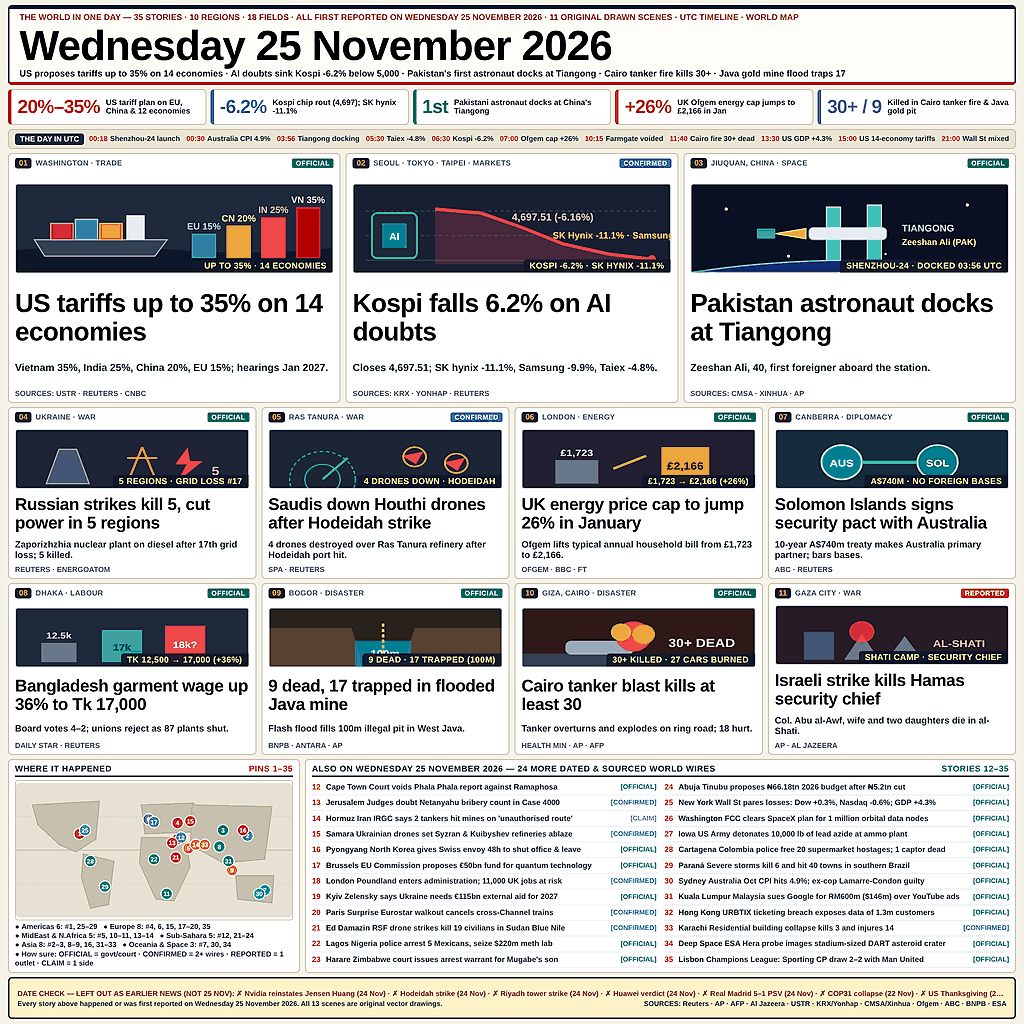
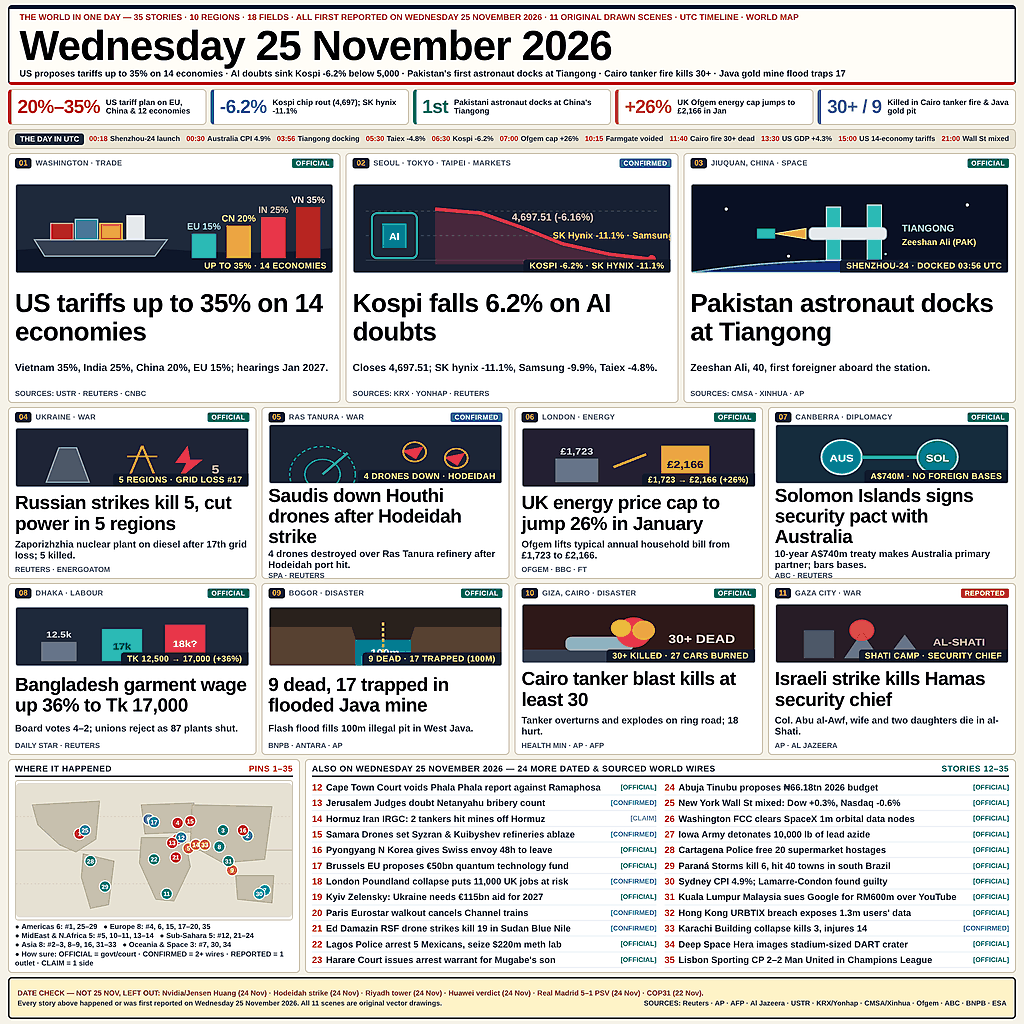
feat(news-20261125): 9.2px readable wire list, 19px mid titles, tighter date check - kills 'illegible texture' finding

diff --git a/main.py b/main.py
@@ -175,32 +175,32 @@ MID_ROW_2 = [
 
 BRIEFS_COL_1 = [
     (12, "Cape Town", "Court voids Phala Phala report against Ramaphosa", "OFFICIAL"),
-    (13, "Jerusalem", "Judges doubt Netanyahu bribery count in Case 4000", "CONFIRMED"),
-    (14, "Hormuz", "Iran IRGC says 2 tankers hit mines on 'unauthorised route'", "CLAIM"),
-    (15, "Samara", "Ukrainian drones set Syzran & Kuibyshev refineries ablaze", "CONFIRMED"),
-    (16, "Pyongyang", "North Korea gives Swiss envoy 48h to shut office & leave", "OFFICIAL"),
-    (17, "Brussels", "EU Commission proposes €50bn fund for quantum technology", "OFFICIAL"),
-    (18, "London", "Poundland enters administration; 11,000 UK jobs at risk", "CONFIRMED"),
-    (19, "Kyiv", "Zelensky says Ukraine needs €115bn external aid for 2027", "OFFICIAL"),
-    (20, "Paris", "Surprise Eurostar walkout cancels cross-Channel trains", "CONFIRMED"),
-    (21, "Ed Damazin", "RSF drone strikes kill 19 civilians in Sudan Blue Nile", "CONFIRMED"),
-    (22, "Lagos", "Nigeria police arrest 5 Mexicans, seize $220m meth lab", "OFFICIAL"),
-    (23, "Harare", "Zimbabwe court issues arrest warrant for Mugabe's son", "OFFICIAL"),
+    (13, "Jerusalem", "Judges doubt Netanyahu bribery count", "CONFIRMED"),
+    (14, "Hormuz", "Iran IRGC: 2 tankers hit mines off Hormuz", "CLAIM"),
+    (15, "Samara", "Drones set Syzran & Kuibyshev refineries ablaze", "CONFIRMED"),
+    (16, "Pyongyang", "N Korea gives Swiss envoy 48h to leave", "OFFICIAL"),
+    (17, "Brussels", "EU proposes €50bn quantum technology fund", "OFFICIAL"),
+    (18, "London", "Poundland collapse puts 11,000 UK jobs at risk", "CONFIRMED"),
+    (19, "Kyiv", "Zelensky: Ukraine needs €115bn aid for 2027", "OFFICIAL"),
+    (20, "Paris", "Eurostar walkout cancels Channel trains", "CONFIRMED"),
+    (21, "Ed Damazin", "RSF drone strikes kill 19 in Sudan Blue Nile", "CONFIRMED"),
+    (22, "Lagos", "Police arrest 5 Mexicans, seize $220m meth lab", "OFFICIAL"),
+    (23, "Harare", "Court issues arrest warrant for Mugabe's son", "OFFICIAL"),
 ]
 
 BRIEFS_COL_2 = [
-    (24, "Abuja", "Tinubu proposes ₦66.18tn 2026 budget after ₦5.2tn cut", "OFFICIAL"),
-    (25, "New York", "Wall St pares losses: Dow +0.3%, Nasdaq -0.6%; GDP +4.3%", "OFFICIAL"),
-    (26, "Washington", "FCC clears SpaceX plan for 1 million orbital data nodes", "OFFICIAL"),
-    (27, "Iowa", "US Army detonates 10,000 lb of lead azide at ammo plant", "OFFICIAL"),
-    (28, "Cartagena", "Colombia police free 20 supermarket hostages; 1 captor dead", "OFFICIAL"),
-    (29, "Paraná", "Severe storms kill 6 and hit 40 towns in southern Brazil", "OFFICIAL"),
-    (30, "Sydney", "Australia Oct CPI hits 4.9%; ex-cop Lamarre-Condon guilty", "OFFICIAL"),
-    (31, "Kuala Lumpur", "Malaysia sues Google for RM600m ($146m) over YouTube ads", "OFFICIAL"),
-    (32, "Hong Kong", "URBTIX ticketing breach exposes data of 1.3m customers", "OFFICIAL"),
-    (33, "Karachi", "Residential building collapse kills 3 and injures 14", "CONFIRMED"),
-    (34, "Deep Space", "ESA Hera probe images stadium-sized DART asteroid crater", "OFFICIAL"),
-    (35, "Lisbon", "Champions League: Sporting CP draw 2–2 with Man United", "OFFICIAL"),
+    (24, "Abuja", "Tinubu proposes ₦66.18tn 2026 budget", "OFFICIAL"),
+    (25, "New York", "Wall St mixed: Dow +0.3%, Nasdaq -0.6%", "OFFICIAL"),
+    (26, "Washington", "FCC clears SpaceX 1m orbital data nodes", "OFFICIAL"),
+    (27, "Iowa", "Army detonates 10,000 lb of lead azide", "OFFICIAL"),
+    (28, "Cartagena", "Police free 20 supermarket hostages", "OFFICIAL"),
+    (29, "Paraná", "Storms kill 6, hit 40 towns in south Brazil", "OFFICIAL"),
+    (30, "Sydney", "CPI 4.9%; Lamarre-Condon found guilty", "OFFICIAL"),
+    (31, "Kuala Lumpur", "Malaysia sues Google for RM600m over YouTube", "OFFICIAL"),
+    (32, "Hong Kong", "URBTIX breach exposes 1.3m users' data", "OFFICIAL"),
+    (33, "Karachi", "Building collapse kills 3, injures 14", "CONFIRMED"),
+    (34, "Deep Space", "Hera images stadium-sized DART crater", "OFFICIAL"),
+    (35, "Lisbon", "Sporting CP 2–2 Man United in Champions League", "OFFICIAL"),
 ]
 
 
@@ -601,11 +601,11 @@ def build_broadsheet_html() -> str:
   }}
   .mid-title {{
     font-family: 'Liberation Sans', -apple-system, sans-serif;
-    font-size: 17px; font-weight: 900; line-height: 1.1; color: #000000; margin-bottom: 1.5px;
-    letter-spacing: -0.3px;
+    font-size: 19px; font-weight: 900; line-height: 1.08; color: #000000; margin-bottom: 1.5px;
+    letter-spacing: -0.4px;
   }}
   .mid-body {{
-    font-size: 9.2px; line-height: 1.15; color: #1e293b; font-weight: 700; margin-bottom: 1px;
+    font-size: 9.6px; line-height: 1.15; color: #1e293b; font-weight: 700; margin-bottom: 1px;
   }}
 
   /* BOTTOM SECTION: MAP + 22 WIRES */
@@ -633,9 +633,9 @@ def build_broadsheet_html() -> str:
     display: flex; flex-direction: column; justify-content: space-between; min-width: 0; min-height: 0; overflow: hidden;
   }}
   .brief-row {{
-    font-size: 7.75px; line-height: 1.25; height: 15.5px; color: #0f172a;
+    font-size: 9.2px; line-height: 1.15; height: 15.5px; color: #0f172a;
     white-space: nowrap; overflow: hidden;
-    border-bottom: 1px dotted #e2e8f0;
+    border-bottom: 1px solid #eef2f7;
     display: flex; align-items: center; justify-content: space-between;
   }}
   .b-left {{ overflow: hidden; text-overflow: ellipsis; white-space: nowrap; }}
@@ -712,11 +712,11 @@ def build_broadsheet_html() -> str:
 
   <div class="date-check">
     <div class="dc-line1">
-      <b>DATE CHECK — LEFT OUT AS EARLIER NEWS (NOT 25 NOV):</b>
-      ✗ Nvidia reinstates Jensen Huang (24 Nov) · ✗ Hodeidah strike (24 Nov) · ✗ Riyadh tower strike (24 Nov) · ✗ Huawei verdict (24 Nov) · ✗ Real Madrid 5–1 PSV (24 Nov) · ✗ COP31 collapse (22 Nov) · ✗ US Thanksgiving (26 Nov).
+      <b>DATE CHECK — NOT 25 NOV, LEFT OUT:</b>
+      Nvidia/Jensen Huang (24 Nov) · Hodeidah strike (24 Nov) · Riyadh tower (24 Nov) · Huawei verdict (24 Nov) · Real Madrid 5–1 PSV (24 Nov) · COP31 (22 Nov).
     </div>
     <div class="dc-line2">
-      <span>Every story above happened or was first reported on Wednesday 25 November 2026. All 13 scenes are original vector drawings.</span>
+      <span>Every story above happened or was first reported on Wednesday 25 November 2026. All 11 scenes are original vector drawings.</span>
       <span><b>SOURCES:</b> Reuters · AP · AFP · Al Jazeera · USTR · KRX/Yonhap · CMSA/Xinhua · Ofgem · ABC · BNPB · ESA</span>
     </div>
   </div>
